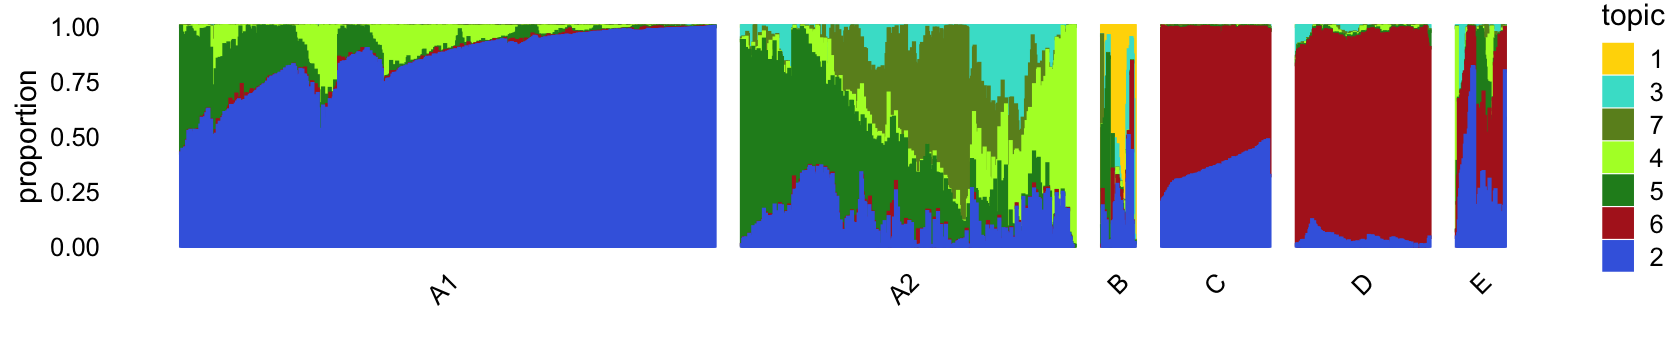
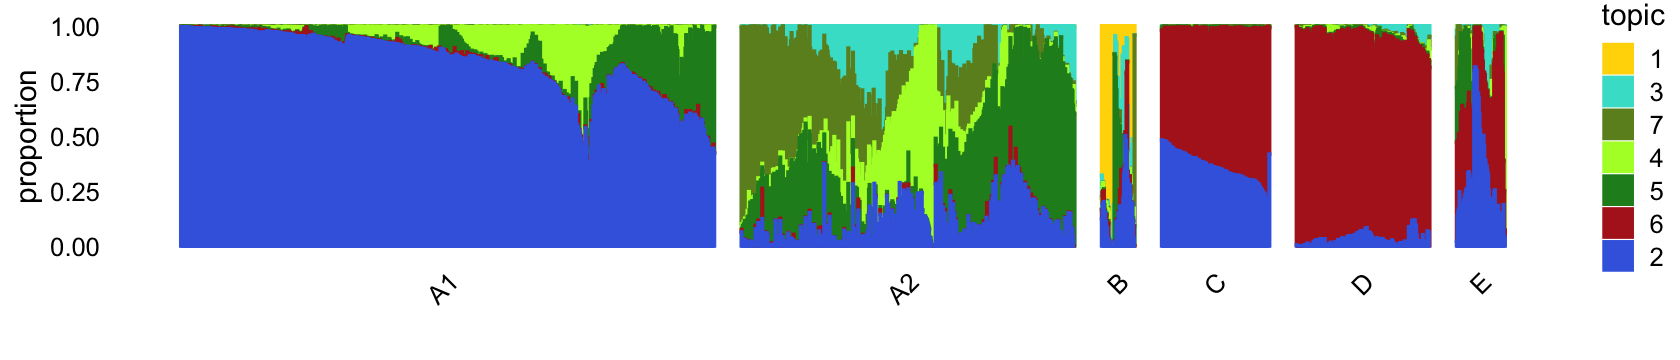
Added PCA plots and structure plots from pulseseq data.

diff --git a/docs/plots_tracheal_epithelium.html b/docs/plots_tracheal_epithelium.html
@@ -412,16 +412,16 @@ This reproducible <a href="http://rmarkdown.rstudio.com">R Markdown</a> analysis
 <div class="panel panel-default">
 <div class="panel-heading">
 <p class="panel-title">
-<a data-toggle="collapse" data-parent="#workflowr-checks" href="#strongRepositoryversionstrongahrefhttpsgithubcomstephenslabsinglecelltopicstree2defe6d80efff8e3f48136d45ef1464755c0d740targetblank2defe6da"> <span class="glyphicon glyphicon-ok text-success" aria-hidden="true"></span> <strong>Repository version:</strong> <a href="https://github.com/stephenslab/single-cell-topics/tree/2defe6d80efff8e3f48136d45ef1464755c0d740" target="_blank">2defe6d</a> </a>
+<a data-toggle="collapse" data-parent="#workflowr-checks" href="#strongRepositoryversionstrongahrefhttpsgithubcomstephenslabsinglecelltopicstreeb731a4a8be11b3d714d52d28a6c7fd9196630e43targetblankb731a4aa"> <span class="glyphicon glyphicon-ok text-success" aria-hidden="true"></span> <strong>Repository version:</strong> <a href="https://github.com/stephenslab/single-cell-topics/tree/b731a4a8be11b3d714d52d28a6c7fd9196630e43" target="_blank">b731a4a</a> </a>
 </p>
 </div>
[2 lines of base64/hex data omitted]
 <div class="panel-body">
 <p>
 Great! You are using Git for version control. Tracking code development and connecting the code version to the results is critical for reproducibility.
 </p>
 <p>
-The results in this page were generated with repository version <a href="https://github.com/stephenslab/single-cell-topics/tree/2defe6d80efff8e3f48136d45ef1464755c0d740" target="_blank">2defe6d</a>. See the <em>Past versions</em> tab to see a history of the changes made to the R Markdown and HTML files.
+The results in this page were generated with repository version <a href="https://github.com/stephenslab/single-cell-topics/tree/b731a4a8be11b3d714d52d28a6c7fd9196630e43" target="_blank">b731a4a</a>. See the <em>Past versions</em> tab to see a history of the changes made to the R Markdown and HTML files.
 </p>
 <p>
 Note that you need to be careful to ensure that all relevant files for the analysis have been committed to Git prior to generating the results (you can use <code>wflow_publish</code> or <code>wflow_git_commit</code>). workflowr only checks the R Markdown file, but you know if there are other scripts or data files that it depends on. Below is the status of the Git repository when the results were generated:
@@ -440,6 +440,9 @@ Ignored files:
     Ignored:    output/pbmc-purified/rds/
     Ignored:    output/pulseseq/fits-pulseseq.RData
     Ignored:    output/pulseseq/rds/
+
+Unstaged changes:
+    Modified:   analysis/plots_pbmc.Rmd
 
 </code></pre>
 <p>
@@ -478,6 +481,40 @@ Message
 </tr>
 </thead>
 <tbody>
+<tr>
+<td>
+Rmd
+</td>
+<td>
+<a href="https://github.com/stephenslab/single-cell-topics/blob/b731a4a8be11b3d714d52d28a6c7fd9196630e43/analysis/plots_tracheal_epithelium.Rmd" target="_blank">b731a4a</a>
+</td>
+<td>
+Peter Carbonetto
+</td>
+<td>
+2020-08-25
+</td>
+<td>
+workflowr::wflow_publish(“plots_tracheal_epithelium.Rmd”)
+</td>
+</tr>
+<tr>
+<td>
+html
+</td>
+<td>
+<a href="https://rawcdn.githack.com/stephenslab/single-cell-topics/c3c1b123eda35d894e3f2ffc836aaec5650530e6/docs/plots_tracheal_epithelium.html" target="_blank">c3c1b12</a>
+</td>
+<td>
+Peter Carbonetto
+</td>
+<td>
+2020-08-25
+</td>
+<td>
+Build site.
+</td>
+</tr>
 <tr>
 <td>
 Rmd
@@ -1251,6 +1288,7 @@ Peter Carbonetto
 # x
 #    A    B    C    D    E 
 # 6533   50  162  375   73</code></pre>
+<p><em>TO DO: Point out the wide range in cluster sizes.</em></p>
 <p>Cluster A further subdivides into two not-quite-so-distinct subclusters, otherwise there does not appear to be any other interesting substructure to delineate:</p>
 <pre class="r"><code>rows &lt;- which(samples_droplet$cluster == &quot;A&quot;)
 fit  &lt;- select(poisson2multinom(fit_droplet),loadings = rows)
@@ -1308,7 +1346,7 @@ table(samples_droplet$cluster)
 #   A1   A2    B    C    D    E 
 # 3968 2565   50  162  375   73</code></pre>
 <p>The structure plot summarizes the topic proportions in each of these 6 subsets:</p>
-<pre class="r"><code>set.seed(2)
+<pre class="r"><code>set.seed(1)
 droplet_topic_colors &lt;- c(&quot;gold&quot;,&quot;royalblue&quot;,&quot;turquoise&quot;,&quot;greenyellow&quot;,
                           &quot;forestgreen&quot;,&quot;firebrick&quot;,&quot;olivedrab&quot;)
 droplet_topics &lt;- c(1,3,7,4,5,6,2)
@@ -1317,7 +1355,7 @@ rows &lt;- sort(c(sample(which(samples_droplet$cluster == &quot;A1&quot;),800),
                which(samples_droplet$cluster == &quot;B&quot;),
                which(samples_droplet$cluster == &quot;C&quot;),
                sample(which(samples_droplet$cluster == &quot;D&quot;),200),
-               which(samples_droplet$cluster == &quot;E&quot;),200))
+               which(samples_droplet$cluster == &quot;E&quot;)))
 p4 &lt;- structure_plot(select(poisson2multinom(fit_droplet),loadings = rows),
                      grouping = samples_droplet[rows,&quot;cluster&quot;],
                      topics = droplet_topics,
@@ -1376,114 +1414,152 @@ p5 &lt;- ggplot(pdat,aes(x = cluster,y = tissue,size = Freq)) +
   theme_cowplot(font_size = 10)
 print(p5)</code></pre>
 <p><img src="figure/plots_tracheal_epithelium.Rmd/droplet-clusters-vs-celltypes-1.png" width="420" style="display: block; margin: auto;" /></p>
+<p>
+<button type="button" class="btn btn-default btn-xs btn-workflowr btn-workflowr-fig" data-toggle="collapse" data-target="#fig-droplet-clusters-vs-celltypes-1">
+Past versions of droplet-clusters-vs-celltypes-1.png
+</button>
+</p>
+<div id="fig-droplet-clusters-vs-celltypes-1" class="collapse">
+<div class="table-responsive">
+<table class="table table-condensed table-hover">
+<thead>
+<tr>
+<th>
+Version
+</th>
+<th>
+Author
+</th>
+<th>
+Date
+</th>
+</tr>
+</thead>
+<tbody>
+<tr>
+<td>
+<a href="https://github.com/stephenslab/single-cell-topics/blob/c3c1b123eda35d894e3f2ffc836aaec5650530e6/docs/figure/plots_tracheal_epithelium.Rmd/droplet-clusters-vs-celltypes-1.png" target="_blank">c3c1b12</a>
+</td>
+<td>
+Peter Carbonetto
+</td>
+<td>
+2020-08-25
+</td>
+</tr>
+</tbody>
+</table>
+</div>
+</div>
 </div>
 <div id="pulse-seq-data" class="section level2">
 <h2>Pulse-seq data</h2>
+<p>Next, we turn to the larger pulse-seq data set.</p>
 <pre class="r"><code>load(&quot;../data/pulseseq.RData&quot;)
 samples_pulseseq &lt;- samples
+x &lt;- as.character(samples_pulseseq$tissue)
+x[x == &quot;club (hillock-associated)&quot;] &lt;- &quot;hillock&quot;
+x[x == &quot;goblet.1&quot;]          &lt;- &quot;goblet&quot;
+x[x == &quot;goblet.2&quot;]          &lt;- &quot;goblet&quot;
+x[x == &quot;goblet.progenitor&quot;] &lt;- &quot;goblet&quot;
+x[x == &quot;tuft.1&quot;]            &lt;- &quot;tuft&quot;
+x[x == &quot;tuft.2&quot;]            &lt;- &quot;tuft&quot;
+x[x == &quot;tuft.progenitor&quot;]   &lt;- &quot;tuft&quot;
+samples_pulseseq$tissue &lt;- factor(x)
 rm(samples,counts)</code></pre>
-<p>Load the <span class="math inline">\(k = 9\)</span> and <span class="math inline">\(k = 11\)</span> Poisson NMF fits for the pulse-seq data.</p>
-<pre class="r"><code>fit_pulseseq9 &lt;- readRDS(&quot;../output/pulseseq/rds/fit-pulseseq-scd-ex-k=9.rds&quot;)$fit
-fit_pulseseq11 &lt;- readRDS(&quot;../output/pulseseq/rds/fit-pulseseq-scd-ex-k=11.rds&quot;)$fit</code></pre>
-<p>Likewise, we also pick up rare and abundant topics in the pulse-seq data:</p>
-<pre class="r"><code>p2 &lt;- create_abundance_plot(fit_pulseseq)
-print(p2)</code></pre>
-<pre class="r"><code>temp &lt;- select(poisson2multinom(fit_droplet),
-               loadings = which(samples_droplet$tissue == &quot;Ionocyte&quot;))
-structure_plot(temp,rows = order(temp$L[,3]),
-                      topics = topic_ordering,
-                      colors = droplet_topic_colors[topic_ordering])
-temp2 &lt;- select(poisson2multinom(fit_droplet),
-                loadings = which(samples_droplet$tissue == &quot;Tuft&quot;))
-structure_plot(temp2,perplexity = 30,
-               topics = topic_ordering,
-               colors = droplet_topic_colors[topic_ordering])
-temp3 &lt;- select(poisson2multinom(fit_droplet),
-                loadings = which(samples_droplet$tissue == &quot;Neuroendocrine&quot;))
-structure_plot(temp3,perplexity = 30,
-               topics = topic_ordering,
-               colors = droplet_topic_colors[topic_ordering])</code></pre>
-<p>It is helpful to compare these results with clustering reported in the Montoro <em>et al</em> (2018) paper. To make this comparison, we layer the 7 clusters on top of these PCs:</p>
-<pre class="r"><code>droplet_celltype_colors &lt;-
-  c(&quot;royalblue&quot;,      # Basal
-    &quot;firebrick&quot;,      # Ciliated
-    &quot;forestgreen&quot;,    # Club
-    &quot;gold&quot;,           # Goblet
-    &quot;darkmagenta&quot;,    # Ionocyte
-    &quot;darkorange&quot;,     # Neuroendocrine
-    &quot;lightsteelblue&quot;) # Tuft
-p9 &lt;- pca_plot_with_labels(fit_droplet,c(&quot;PC1&quot;,&quot;PC2&quot;),samples_droplet$tissue,
-                           droplet_celltype_colors) + labs(fill = &quot;celltype&quot;)
-p10 &lt;- pca_plot_with_labels(fit_droplet,c(&quot;PC4&quot;,&quot;PC5&quot;),samples_droplet$tissue,
-                            droplet_celltype_colors) + labs(fill = &quot;celltype&quot;)
-p11 &lt;- pca_plot_with_labels(fit_droplet,c(&quot;PC5&quot;,&quot;PC6&quot;),samples_droplet$tissue,
-                            droplet_celltype_colors) + labs(fill = &quot;celltype&quot;)
-plot_grid(p9,p10,p11)</code></pre>
-<p><strong>TO DO:</strong> Add Structure plot9s) to compare Montoro <em>et al</em> (2018) clustering.</p>
-<p>And likewise in the pulse-seq data:</p>
-<pre class="r"><code>p5 &lt;- basic_pca_plot(fit_pulseseq,c(&quot;PC3&quot;,&quot;PC4&quot;))
-p6 &lt;- basic_pca_plot(fit_pulseseq,c(&quot;PC5&quot;,&quot;PC6&quot;))
-plot_grid(p5,p6)</code></pre>
-<pre class="r"><code>ggplot(cbind(pca$x,data.frame(k2 = fit$L[,2])),
-       aes(x = PC1,y = PC2,fill = k2)) +
-  geom_point(shape = 21,color = &quot;white&quot;,size = 2) +
-  scale_fill_gradient2(low = &quot;deepskyblue&quot;,mid = &quot;gold&quot;,high = &quot;orangered&quot;,
-                       midpoint = 0.5) +
-  theme_cowplot(font_size = 12)
-ggplot(cbind(pca$x,data.frame(k5 = fit$L[,5])),
-       aes(x = PC1,y = PC2,fill = k5)) +
-  geom_point(shape = 21,color = &quot;white&quot;,size = 2) +
-  scale_fill_gradient2(low = &quot;deepskyblue&quot;,mid = &quot;gold&quot;,high = &quot;orangered&quot;,
-                       midpoint = 0.5) +
-  theme_cowplot(font_size = 12)
-ggplot(cbind(pca$x,data.frame(k6 = fit$L[,6])),
-       aes(x = PC1,y = PC2,fill = k6)) +
-  geom_point(shape = 21,color = &quot;white&quot;,size = 2) +
-  scale_fill_gradient2(low = &quot;deepskyblue&quot;,mid = &quot;gold&quot;,high = &quot;orangered&quot;,
-                       midpoint = 0.5) +
-  theme_cowplot(font_size = 12)
-ggplot(cbind(pca$x,data.frame(k1 = fit$L[,1])),
-       aes(x = PC5,y = PC6,fill = k1)) +
-  geom_point(shape = 21,color = &quot;white&quot;,size = 2) +
-  scale_fill_gradient2(low = &quot;deepskyblue&quot;,mid = &quot;gold&quot;,high = &quot;orangered&quot;,
-                       midpoint = 0.5) +
-  theme_cowplot(font_size = 12)</code></pre>
-<pre class="r"><code>ggplot(cbind(pca$x,data.frame(k3 = fit$L[,3])),
-       aes(x = PC1,y = PC2,fill = k3)) +
-  geom_point(shape = 21,color = &quot;white&quot;,size = 2) +
-  scale_fill_gradient2(low = &quot;deepskyblue&quot;,mid = &quot;gold&quot;,high = &quot;orangered&quot;,
-                       midpoint = 0.5) +
-  theme_cowplot(font_size = 12)
-ggplot(cbind(pca$x,data.frame(k4 = fit$L[,4])),
-       aes(x = PC1,y = PC2,fill = k4)) +
-  geom_point(shape = 21,color = &quot;white&quot;,size = 2) +
-  scale_fill_gradient2(low = &quot;deepskyblue&quot;,mid = &quot;gold&quot;,high = &quot;orangered&quot;,
-                       midpoint = 0.5) +
-  theme_cowplot(font_size = 12)</code></pre>
-<pre class="r"><code>ggplot(cbind(samples_droplet,pca$x),aes(x = PC1,y = PC2,fill = tissue)) +
-  geom_point(shape = 21,color = &quot;white&quot;,size = 2) +
-  scale_fill_manual(values = clrs) +
-  theme_cowplot(font_size = 12)
-ggplot(cbind(samples_droplet,pca$x),aes(x = PC5,y = PC6,fill = tissue)) +
-  geom_point(shape = 21,color = &quot;white&quot;,,size = 2) +
-  scale_fill_manual(values = clrs) +
-  theme_cowplot(font_size = 12)</code></pre>
-<pre class="r"><code>clrs &lt;- c(&quot;royalblue&quot;,      # basal
-          &quot;firebrick&quot;,      # ciliated
-          &quot;forestgreen&quot;,    # club
-          &quot;gold&quot;,           # goblet
-          &quot;darkmagenta&quot;,    # ionocyte
-          &quot;darkorange&quot;,     # neuroendocrine
-          &quot;tomato&quot;,         # proliferating
-          &quot;darkgray&quot;)       # tuft
-ggplot(cbind(samples_droplet,pca$x),aes(x = PC1,y = PC2,fill = tissue)) +
-  geom_point(shape = 21,color = &quot;white&quot;,size = 2) +
-  scale_fill_manual(values = clrs) +
-  theme_cowplot(font_size = 12)
-ggplot(cbind(samples_droplet,pca$x),aes(x = PC5,y = PC6,fill = tissue)) +
-  geom_point(shape = 21,color = &quot;white&quot;,,size = 2) +
-  scale_fill_manual(values = clrs) +
-  theme_cowplot(font_size = 12)</code></pre>
+<p>Load the <span class="math inline">\(k = 11\)</span> Poisson NMF fits for the pulse-seq data.</p>
+<pre class="r"><code>fit_pulseseq &lt;- readRDS(&quot;../output/pulseseq/rds/fit-pulseseq-scd-ex-k=11.rds&quot;)$fit</code></pre>
+<p>Like the droplet data, we also pick up rare and abundant topics in the pulse-seq data:</p>
+<pre class="r"><code>p6 &lt;- create_abundance_plot(fit_pulseseq)
+print(p6)</code></pre>
+<p><img src="figure/plots_tracheal_epithelium.Rmd/abundance-plot-pulseseq-1.png" width="480" style="display: block; margin: auto;" /></p>
+<p>Following the steps taken for the droplet data, next we compute PCs, and inspect the projection of the samples onto PCs to identify clusters.</p>
+<pre class="r"><code>fit &lt;- poisson2multinom(fit_pulseseq)
+pca &lt;- prcomp(fit$L)$x</code></pre>
+<p>Here we identify clusters in PCs 3 and 4.</p>
+<pre class="r"><code>n   &lt;- nrow(pca)
+x   &lt;- rep(&quot;C&quot;,n)
+pc3 &lt;- pca[,&quot;PC3&quot;]
+pc4 &lt;- pca[,&quot;PC4&quot;]
+pc5 &lt;- pca[,&quot;PC5&quot;]
+pc6 &lt;- pca[,&quot;PC6&quot;]
+x[5*pc3 + 0.475 &gt; pc4] &lt;- &quot;A&quot;
+x[(pc3 + 0.725)^2 + (pc4 - 0.1)^2 &lt; 0.04] &lt;- &quot;B&quot;
+samples_pulseseq$cluster &lt;- x
+p7 &lt;- pca_plot_with_labels(fit_pulseseq,c(&quot;PC3&quot;,&quot;PC4&quot;),x) +
+      labs(fill = &quot;cluster&quot;)
+print(p7)</code></pre>
+<p><img src="figure/plots_tracheal_epithelium.Rmd/pulseseq-clustering-2-1.png" width="540" style="display: block; margin: auto;" /></p>
+<p>Clustering in PCs 3 and 4 of cluster A:</p>
+<pre class="r"><code>rows &lt;- which(samples_pulseseq$cluster == &quot;A&quot;)
+fit  &lt;- select(poisson2multinom(fit_pulseseq),loadings = rows)
+pca  &lt;- prcomp(fit$L)$x
+n    &lt;- nrow(pca)
+x    &lt;- rep(&quot;A3&quot;,n)
+pc3  &lt;- pca[,&quot;PC3&quot;]
+pc4  &lt;- pca[,&quot;PC4&quot;]
+x[pc4 &lt; 0.3] &lt;- &quot;A1&quot;
+x[pc4 &gt; pc3 + 0.975] &lt;- &quot;A2&quot;
+samples_pulseseq[rows,&quot;cluster&quot;] &lt;- x
+p8 &lt;- pca_plot_with_labels(fit,c(&quot;PC3&quot;,&quot;PC4&quot;),x) +
+      labs(fill = &quot;cluster&quot;)
+print(p8)</code></pre>
+<p><img src="figure/plots_tracheal_epithelium.Rmd/pulseseq-clustering-4-1.png" width="840" style="display: block; margin: auto;" /></p>
+<p>Subclustering in PCs 1 and 3 of cluster A3:</p>
+<pre class="r"><code>rows &lt;- which(samples_pulseseq$cluster == &quot;A3&quot;)
+fit  &lt;- select(poisson2multinom(fit_pulseseq),loadings = rows)
+pca  &lt;- prcomp(fit$L)$x
+n    &lt;- nrow(pca)
+x    &lt;- rep(&quot;A3b&quot;,n)
+pc1  &lt;- pca[,&quot;PC1&quot;]
+pc2  &lt;- pca[,&quot;PC2&quot;]
+x[pc1 &lt; 0.08 &amp; pc2 &gt; -0.08] &lt;- &quot;A3a&quot;
+samples_pulseseq[rows,&quot;cluster&quot;] &lt;- x
+p9 &lt;- pca_plot_with_labels(fit,c(&quot;PC1&quot;,&quot;PC2&quot;),x) +
+      labs(fill = &quot;cluster&quot;)
+print(p9)</code></pre>
+<p><img src="figure/plots_tracheal_epithelium.Rmd/pulseseq-clustering-5-1.png" width="840" style="display: block; margin: auto;" /></p>
+<p>In summary, we have subdivided the pulse-seq data into 6 subsets. The vast majority of the samples are in cluster A1:</p>
+<pre class="r"><code>samples_pulseseq$cluster &lt;- factor(samples_pulseseq$cluster)
+table(samples_pulseseq$cluster)
+# 
+#    A1    A2   A3a   A3b     B     C 
+# 61360  1291   214   130  2905   365</code></pre>
+<p>The structure plot summarizes the topic proportions in each of these 6 subsets:</p>
+<pre class="r"><code>set.seed(1)
+pulseseq_topic_colors &lt;- c(&quot;#8dd3c7&quot;,&quot;darkorange&quot;,
+  &quot;#bebada&quot;,&quot;#fb8072&quot;,&quot;#80b1d3&quot;,
+  &quot;#fdb462&quot;,&quot;firebrick&quot;,&quot;#b3de69&quot;,&quot;royalblue&quot;,&quot;forestgreen&quot;,&quot;slategray&quot;)
+pulseseq_topics &lt;- c(1,2,3,4,5,6,7,8,10,11,9)
+rows &lt;- sort(c(sample(which(samples_pulseseq$cluster == &quot;A1&quot;),1200),
+               sample(which(samples_pulseseq$cluster == &quot;A2&quot;),500),
+               which(samples_pulseseq$cluster == &quot;A3a&quot;),
+               which(samples_pulseseq$cluster == &quot;A3b&quot;),
+               sample(which(samples_pulseseq$cluster == &quot;B&quot;),500),
+               which(samples_pulseseq$cluster == &quot;C&quot;)))
+p10 &lt;- structure_plot(select(poisson2multinom(fit_pulseseq),loadings = rows),
+                      grouping = samples_pulseseq[rows,&quot;cluster&quot;],
+                      topics = pulseseq_topics,
+                      colors = pulseseq_topic_colors[pulseseq_topics],
+                      n = Inf,gap = 30,num_threads = 4,verbose = FALSE)
+# Perplexity automatically changed to 70 because original setting of 100 was too large for the number of samples (214)
+# Perplexity automatically changed to 42 because original setting of 100 was too large for the number of samples (130)
+print(p10)</code></pre>
+<p><img src="figure/plots_tracheal_epithelium.Rmd/pulseseq-structure-plot-1.png" width="900" style="display: block; margin: auto;" /></p>
+<p>Compare the clusters with the clusters identified by Montoro <em>et al</em> (2018):</p>
+<pre class="r"><code>with(samples_pulseseq,table(tissue,cluster))
+#                 cluster
+# tissue              A1    A2   A3a   A3b     B     C
+#   basal          42071     0     0     8     0    14
+#   ciliated           5     0     0     1  2896   114
+#   club           13549     1     3     5     0    10
+#   goblet           399     0     0     1     0     3
+#   hillock         4129     0     0     0     0     3
+#   ionocyte          53     5   188    29     0     1
+#   neuroendocrine     1   612     9     5     0     3
+#   proliferating   1132     0     3    54     9   215
+#   tuft              21   673    11    27     0     2</code></pre>
+<p><em>Note:</em> The <span class="math inline">\(k = 9\)</span> fit does <em>not</em> have a separate topic for the neuroendocrine/tuft cells.</p>
 <br>
 <p>
 <button type="button" class="btn btn-default btn-workflowr btn-workflowr-sessioninfo" data-toggle="collapse" data-target="#workflowr-sessioninfo" style="display: block;">
